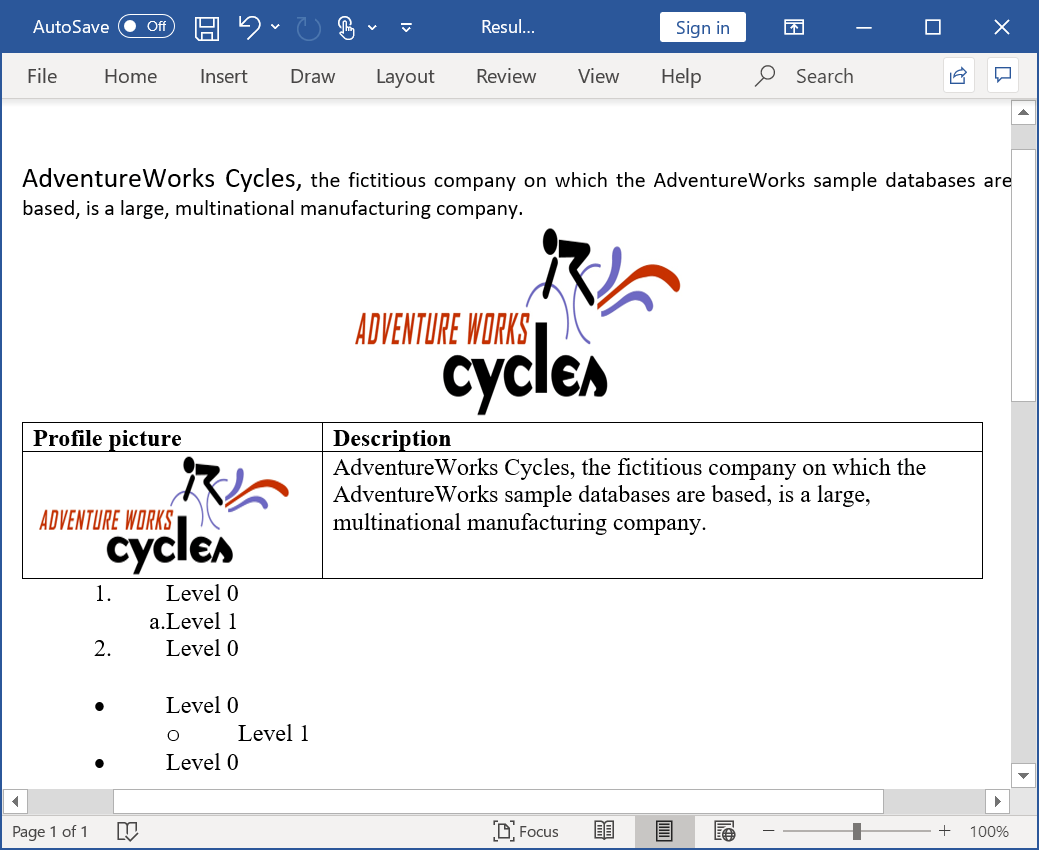
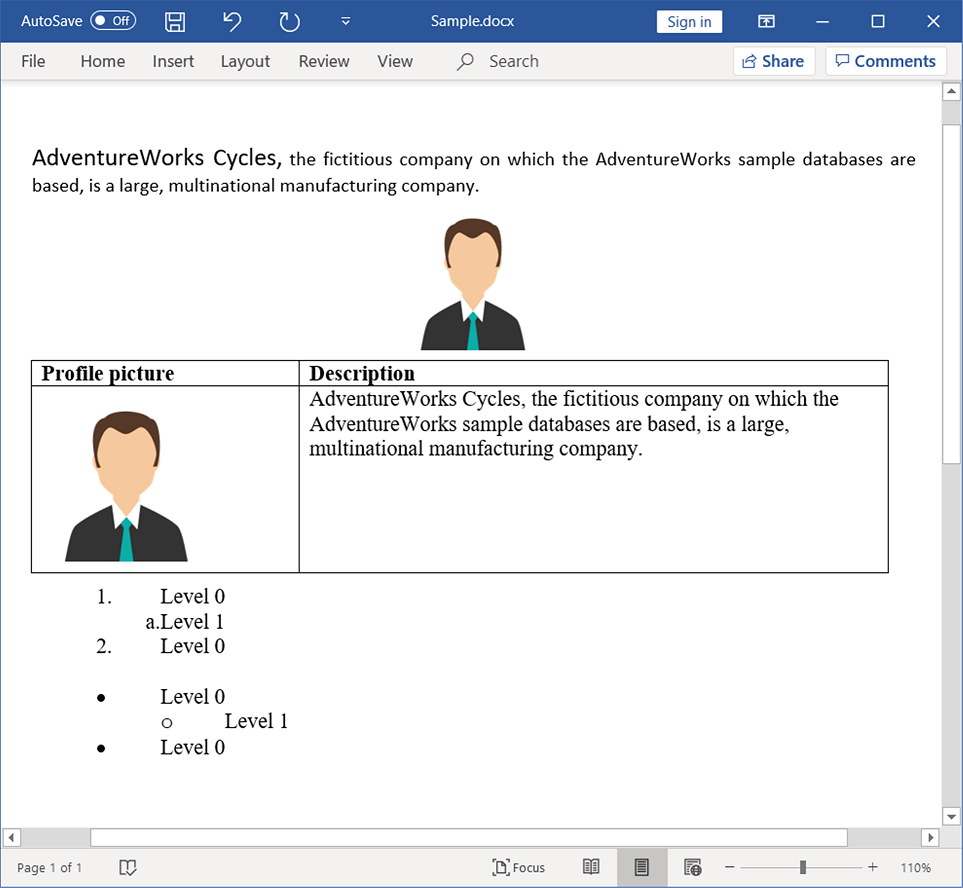
Addressed screenshots and description

Changed region(s): [[0.0, 0.0, 1.0, 1.0], [0.0935, 0.8259, 0.1246, 0.8565], [0.0935, 0.7647, 0.1246, 0.7953]]

diff --git a/java-file-formats/word-library/getting-started.md b/java-file-formats/word-library/getting-started.md
@@ -24,7 +24,7 @@ This jar contains the core features needed for creating, reading, manipulating a
 <tr>
 <td>
 syncfusion-javahelper<br/><br/></td><td>
-This jar is used to package the Word document contents.<br/><br/></td></tr>
+This jar contains common functionalities required for file format libraries.<br/><br/></td></tr>
 </tbody>
 </table>
 
@@ -117,11 +117,13 @@ The following code example shows how to add an image into the Word document.
 //Add another paragraph and aligns it as a center.
 IWParagraph paragraph = section.addParagraph();
 paragraph.getParagraphFormat().setHorizontalAlignment(HorizontalAlignment.Center);
+//Set after spacing for paragraph.
+paragraph.getParagraphFormat().setAfterSpacing(6);
 //Add a picture into the paragraph.
-IWPicture picture = paragraph.appendPicture(new FileInputStream("Image.jpg"));
+IWPicture picture = paragraph.appendPicture(new FileInputStream("DummyProfilePicture.jpg"));
 //Specify the size of the picture.
-picture.setHeight(100);
-picture.setWidth(170);
+picture.setHeight(86);
+picture.setWidth(81);
 {% endhighlight %}
 
 {% endtabs %}  
@@ -154,10 +156,12 @@ firstCell=table.getRows().get(1).getCells().get(0);
 firstCell.setWidth(150);
 //Add image to  the paragraph.
 paragraph=firstCell.addParagraph();
-IWPicture profilePicture = paragraph.appendPicture(new FileInputStream("ProfilePicture.jpg"));
+//Set after spacing for paragraph.
+paragraph.getParagraphFormat().setAfterSpacing(6);
+IWPicture profilePicture = paragraph.appendPicture(new FileInputStream("DummyProfilePicture.jpg"));
 //Set the height and width for the image.
-profilePicture.setHeight(65);
-profilePicture.setWidth(130);
+profilePicture.setHeight(98);
+profilePicture.setWidth(95);
 //Access the instance of cell (second row, second cell) and adds text.
 secondCell=table.getRows().get(1).getCells().get(1);
 secondCell.setWidth(330);
@@ -174,6 +178,8 @@ Essential DocIO allows you to create simple and multi-level lists. The following
 {% highlight JAVA %}
 //Write the default numbered list. 
 paragraph=section.addParagraph();
+//Set before spacing for paragraph.
+paragraph.getParagraphFormat().setBeforeSpacing(6);
 paragraph.appendText("Level 0");
 //Apply the default numbered list formats. 
 paragraph.getListFormat().applyDefNumberedStyle();
